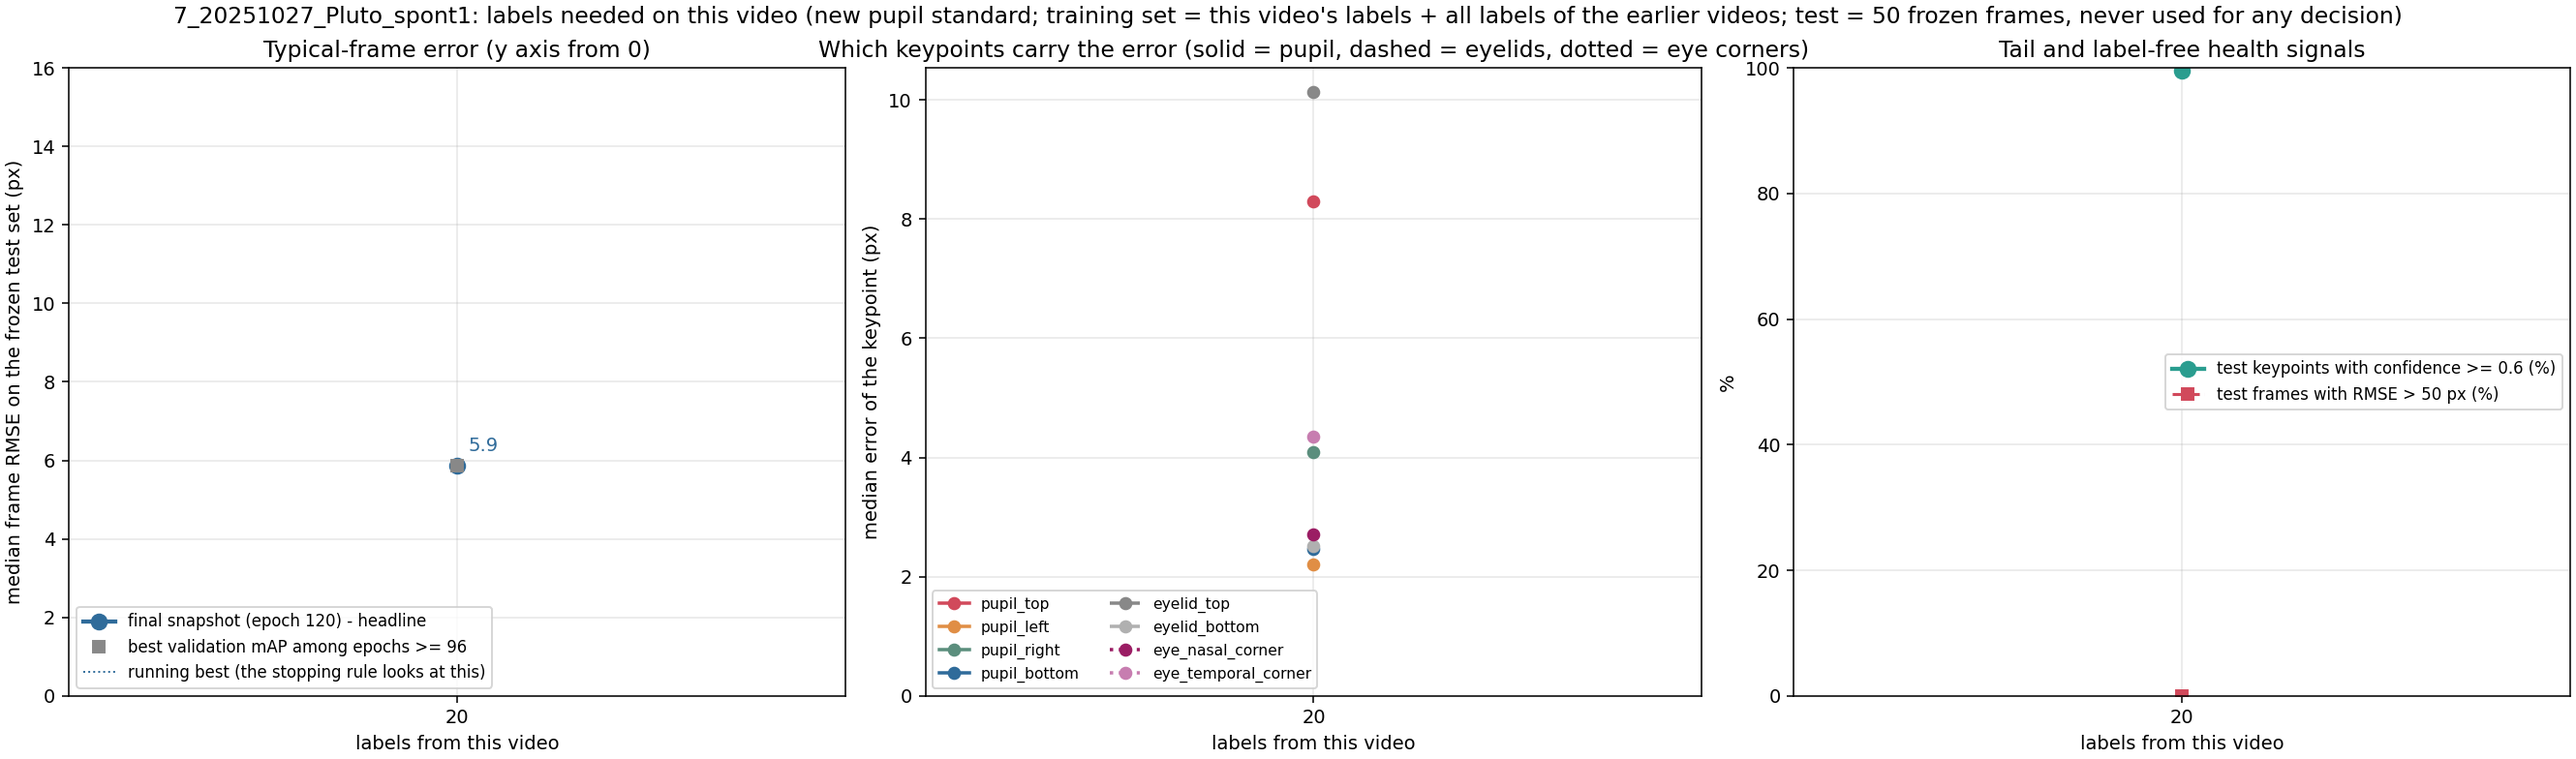
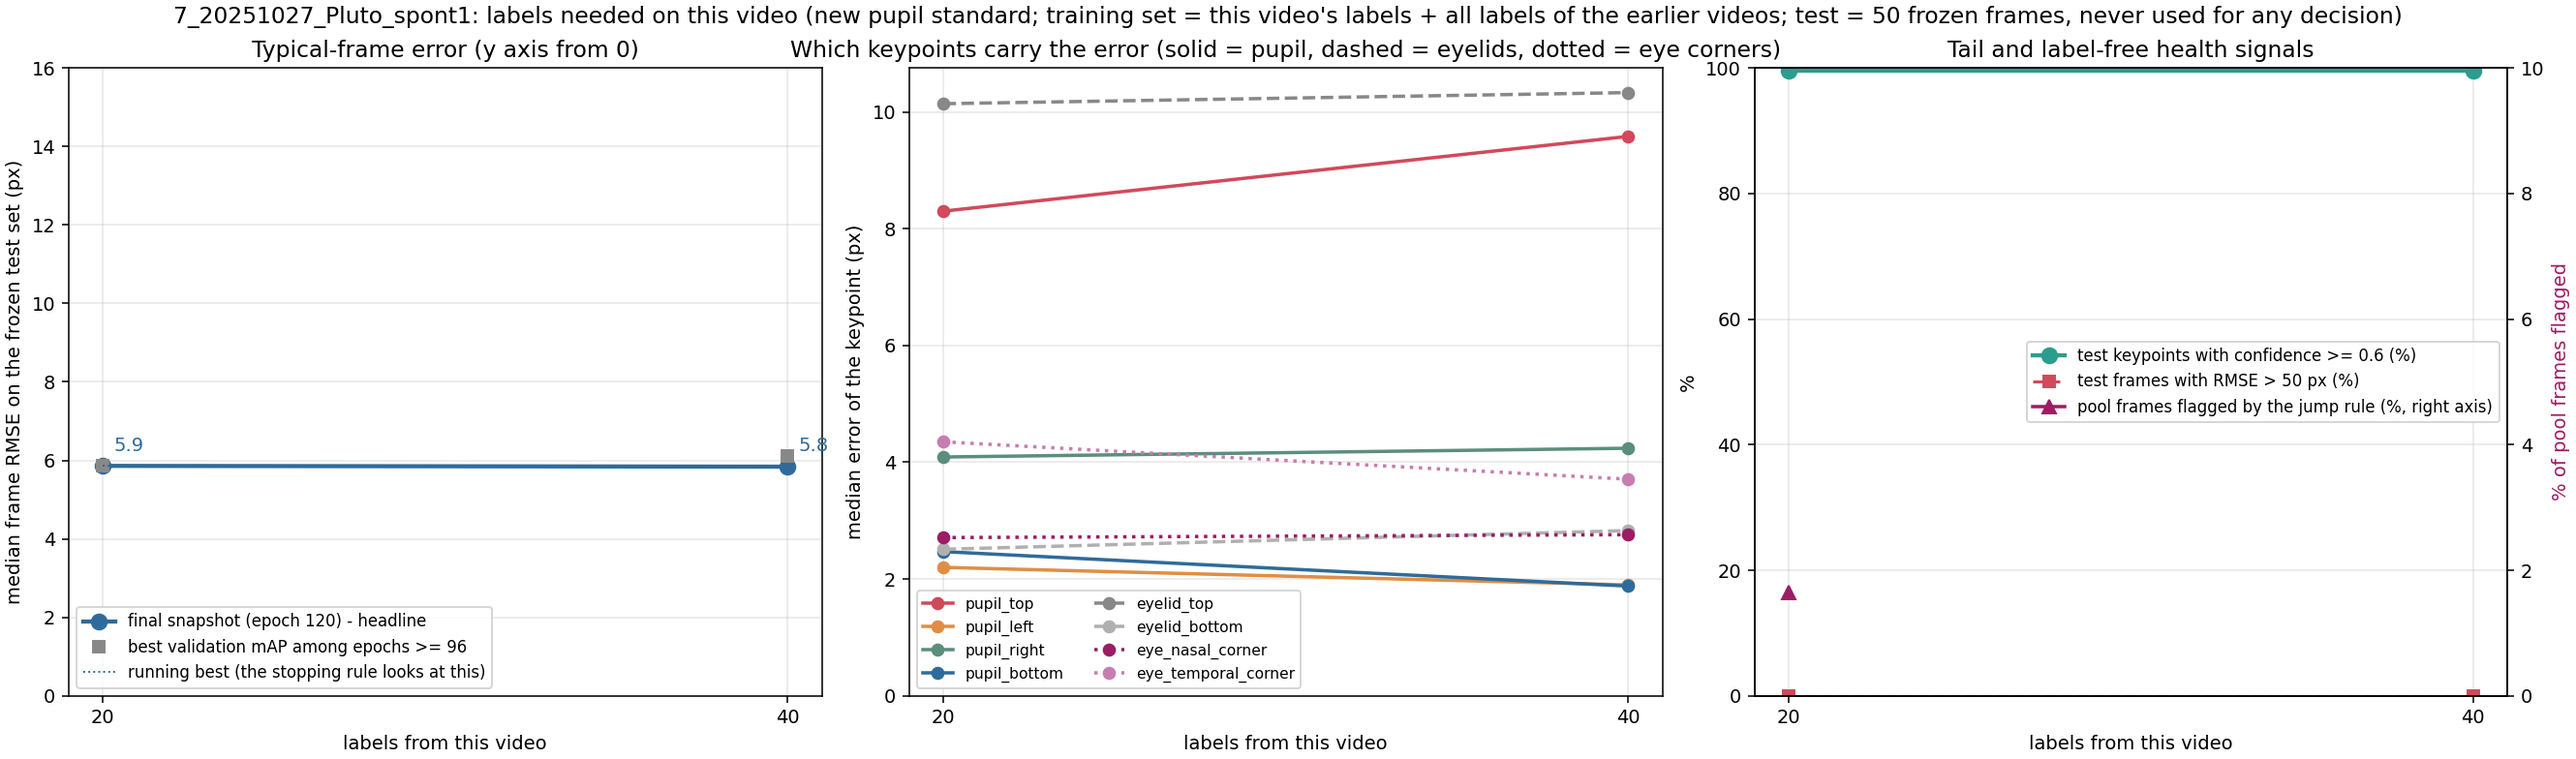
Video 7 v2 step 2: 40 labels = 5.84 px; plateau rule fires at 0 labels (5.36 px), decision pending

diff --git a/README.md b/README.md
@@ -8,7 +8,7 @@ how many human labels are needed, and how few frames must a person correct, befo
 Zhiheng Li (University of Minnesota), with Kaiwen Sheng (Stanford). Raw videos, frames, labels, model weights and
 per-frame predictions stay local; git carries code, documentation and audited aggregate results.
 
-## Status (last updated 2026-09-29 20:00 CDT)
+## Status (last updated 2026-09-29 23:30 CDT)
 
 | what | state |
 |---|---|
@@ -19,7 +19,7 @@ per-frame predictions stay local; git carries code, documentation and audited ag
 | Finished | **video 5** (Pluto, 2025-10-29, convention v2): plateau at **20 labels, 15.85 px** (0/20/40 = 11.90/15.85/16.58 px; the 0-label model is > 50 px off on 12% of frames, 20 labels remove all of them) |
 | Finished | **fewer-labels study** (videos 0-5, step 1 retrained with 5 or 10 of its 20 labels, training set otherwise as at that time): 5 labels were enough only on videos 3 and 5; on videos 0, 1, 2 and 4, 5 or 10 labels fall short of 20 (video 4: 10 labels worse than none). 20 labels is the smallest batch that worked on every video; table in `v2_new_pupil_top_video_scaling/results/README.md` |
 | Finished | **video 6** (Pluto, 2025-10-28, v2 line continued): test set relabeled under v2 and frozen; 0 labels (video-5 model 631) = 9.36 px, 20 labels = 6.75 px (p90 11.2), 40 labels = 8.46 px, 60 labels = 10.68 px (p90 14.9): finished at **20 labels, 6.75 px** (rule fired at 60; user decision 2026-09-29). |
-| In progress | **video 7** (Pluto, 2025-10-27, v2 line): test set relabeled under v2 and frozen; 0 labels (video-6 model 711) = 5.36 px, 20 labels = 5.86 px (p90 8.9 -> 7.6, all keypoints confident); batch02 being selected Cross-video curves now also show the 5 / 10-label subset models (open markers) |
+| In progress | **video 7** (Pluto, 2025-10-27, v2 line): test set relabeled under v2 and frozen; 0 labels (video-6 model 711) = 5.36 px, 20 labels = 5.86 px, 40 labels = 5.84 px: the plateau rule fires at **0 labels (5.36 px)** - the video-6 model already fits this day; batch03 popup held, user decision pending Cross-video curves now also show the 5 / 10-label subset models (open markers) |
 | v3 (paused) | `v3_pupil_vedio_scaling/`: videos linked; labelling guide v0.2 records the 2026-09-29 decision (Kaiwen Sheng): the light band around the black core is pupil (fur / eyelash occlusion, IR-LED lightening), so the labeler's outer-edge labels are the reference and the guide's core-based procedure is withdrawn; v3 resumes after the procedure is re-derived from the human labels |
 | Blink / area analysis | per-video time series in `<video>/results/blink_area_analysis/`; across videos (`v2_new_pupil_top_video_scaling/results/blink_area_consistency.png`): 4-point area better on 7 of 8 test sets; lowest pupil confidence < ~0.2 separates all 16 human closed-eye frames (the production 0.6 cut flags ~half of open frames); area correlates with eye opening in every video |
 | Test-set only | videos 5-8 (2025-10-29 / 28 / 27 / 24): frozen test sets scored by every model so far; videos 9 (10-23) and 10 (10-22): test sets being labeled |
@@ -37,7 +37,7 @@ Labels needed per video (plateau = two consecutive 20-label steps that improve t
 | 4 | Pluto, 2025-10-30 (poor quality) | 320 | run 2 (v2): 32.11 / 24.64 / 15.01 / 16.82 / 17.54 px | 40 labels, 15.0 px (run 1 v1: 140 labels) |
 | 5 | Pluto, 2025-10-29 | 360 | 11.90 / 15.85 / 16.58 px (v2) | 20 labels, 15.9 px (0 labels: 12% of frames > 50 px) |
 | 6 | Pluto, 2025-10-28 | 380 | 9.36 / 6.75 / 8.46 / 10.68 px (v2) | 20 labels, 6.75 px (rule fired at 60) |
-| 7 | Pluto, 2025-10-27 | 400 | 5.36 / 5.86 px (v2, in progress) | – |
+| 7 | Pluto, 2025-10-27 | 400 | 5.36 / 5.86 / 5.84 px (v2) | 0 labels, 5.36 px (rule fired at 40) |
 
 What the numbers say:
 

diff --git a/v2_new_pupil_top_video_scaling/results/README.md b/v2_new_pupil_top_video_scaling/results/README.md
@@ -19,7 +19,7 @@ snapshot with the best validation mAP after the first learning-rate drop (epochs
 | 4 `4_20251030_Pluto_spont_1` | mouse B, 19.9 min, 2025-10-30 (poor image quality) | 320 (videos 0-3) | run 2 (convention v2): 32.11 / 24.64 / 15.01 / 16.82 / 17.54 | **40 labels** (run 2; run 1 under v1: 140 labels) | 15.01 px |
 | 5 `5_20251029_Pluto_spont_1` | mouse B, 19.9 min, 2025-10-29 | 360 (videos 0-3 + 40 of video 4 run 2) | convention v2: 11.90 / 15.85 / 16.58 / – / – / – | **20 labels** (user decision: the median rule fires at 0, but the 0-label model is > 50 px off on 12% of test frames; 20 labels remove all of them) | 15.85 px |
 | 6 `6_20251028_Pluto_spont_1` | mouse B, 19.9 min, 2025-10-28 | 380 (videos 0-3 + 40 of video 4 + 20 of video 5) | convention v2: 9.36 / 6.75 / 8.46 / 10.68 | **20 labels** (rule fired at 60; user decision 2026-09-29) | 6.75 px |
-| 7 `7_20251027_Pluto_spont1` | mouse B, 19.9 min, 2025-10-27 | 400 (videos 0-3 + 40 of video 4 + 20 of video 5 + 20 of video 6) | convention v2: 5.36 / 5.86 | in progress (step 1 did not improve the median; p90 8.9 -> 7.6) | – |
+| 7 `7_20251027_Pluto_spont1` | mouse B, 19.9 min, 2025-10-27 | 400 (videos 0-3 + 40 of video 4 + 20 of video 5 + 20 of video 6) | convention v2: 5.36 / 5.86 / 5.84 | **0 labels** by the rule (fired at 40; user decision pending) | 5.36 px |
 
 Notes
 - With 50 test frames the median moves by about 1 px between neighbouring steps from sampling alone, so the

diff --git a/v2_new_pupil_top_video_scaling/7_20251027_Pluto_spont1/results/README.md b/v2_new_pupil_top_video_scaling/7_20251027_Pluto_spont1/results/README.md
@@ -11,3 +11,6 @@ video's labels; shuffles 811, 812, ...
 |---|---|---|---|---|---|
 | 0 (video-6 20-label model 711, applied unchanged) | 5.36 px | 8.9 | 0% | 81% | – |
 | 20 (shuffle 811) | 5.86 px | 7.6 | 0% | 100% | 940 of 57158 (1.6%) |
+| 40 (shuffle 812) | 5.84 px | 8.2 | 0% | 100% | pending |
+
+**Plateau rule fired at step 2 (2026-09-29):** neither 20 labels (5.86 px) nor 40 labels (5.84 px) improved the 0-label score of 5.36 px by more than 3%, so by the rule this video needs no labels of its own (plateau point = 0 labels, 5.36 px); the batch03 popup is held pending the user's decision. batch02 note: one closed-eye frame (img022586) had a stray pupil_top and swapped corners; corrected on re-check and step 2 was retrained on the corrected batch.
